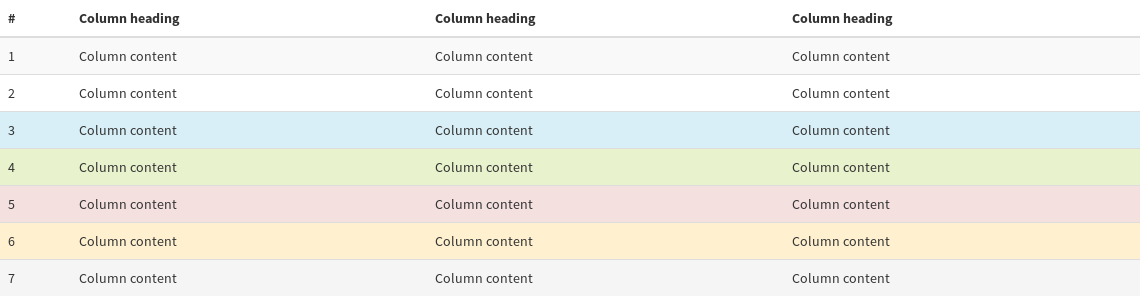
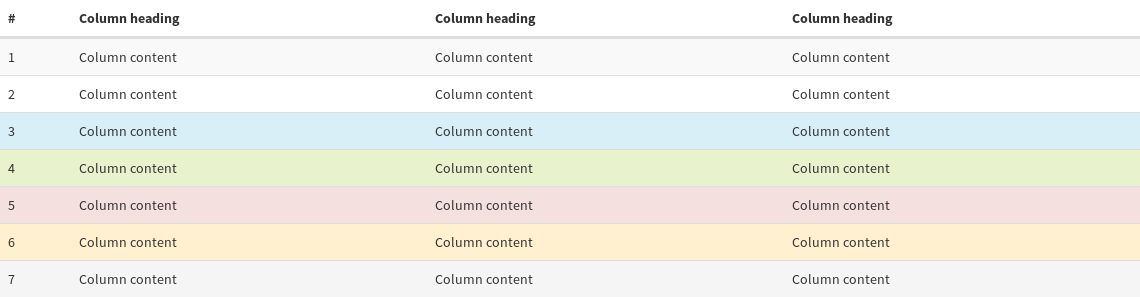
fix(theme/table): border issues onZoom FF only (#496)

diff --git a/packages/theme/src/theme/_tables.scss b/packages/theme/src/theme/_tables.scss
@@ -17,3 +17,20 @@
 		}
 	}
 }
+
+@-moz-document url-prefix() { /* fix Firefox only https://bugzilla.mozilla.org/show_bug.cgi?id=410959 */
+	.table {
+		border-collapse: separate !important;
+		border-spacing: 0;
+	}
+
+	tr:not(:last-child) th,
+	tr:not(:last-child) td {
+		border-bottom-width: 0 !important;
+	}
+
+	th:not(:last-child),
+	td:not(:last-child) {
+		border-right-width: 0 !important;
+	}
+}
